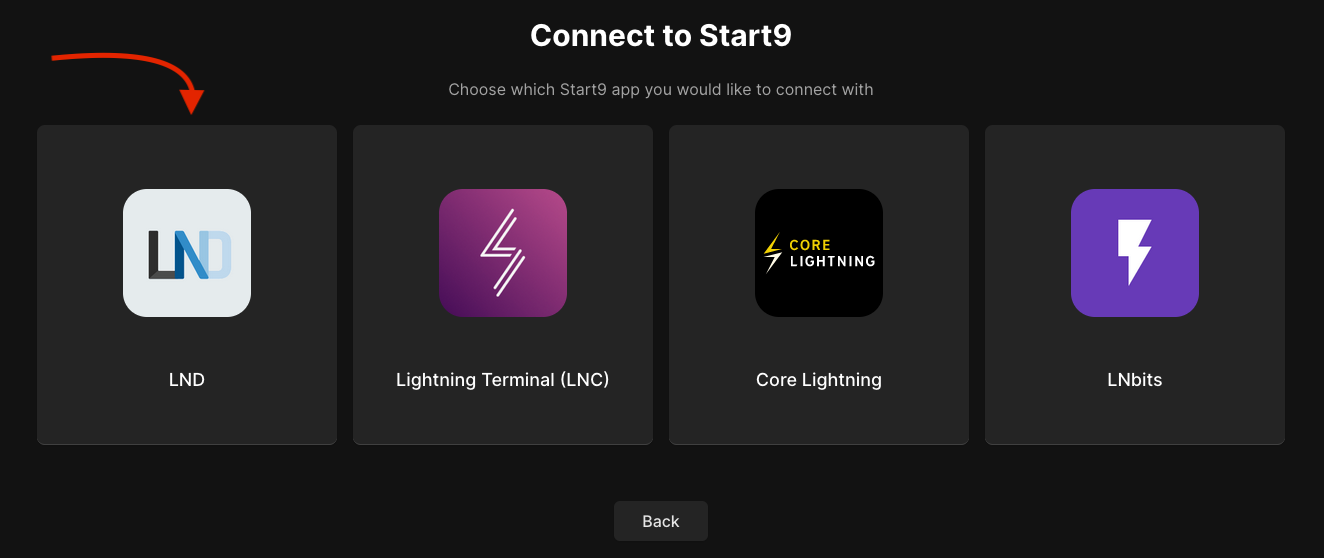
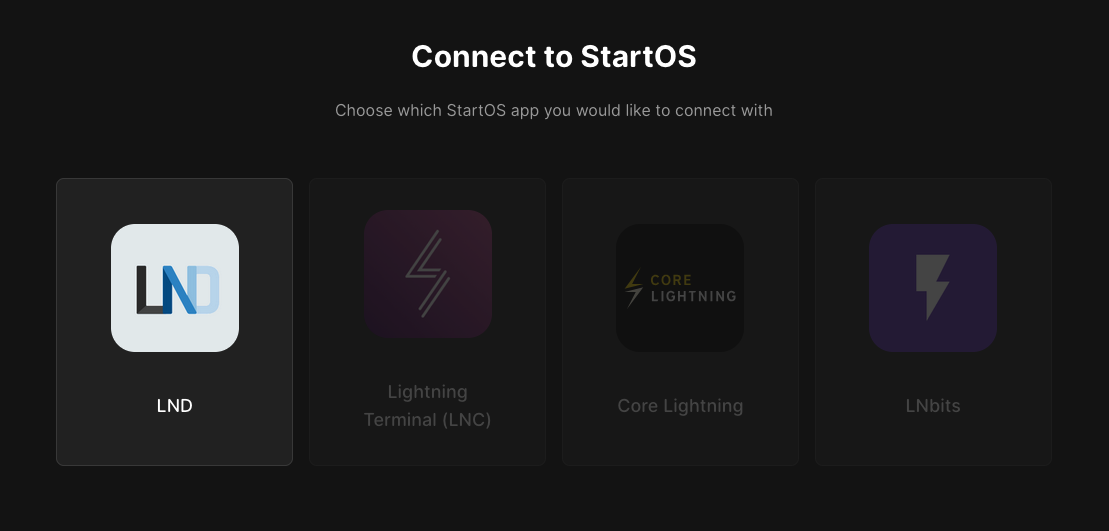
Integration of AlbyHub guide(s)

diff --git a/site/source/service-guides/lightning/albyhub.rst b/site/source/service-guides/lightning/albyhub.rst
@@ -1,0 +1,219 @@
+.. _albyhub:
+
+=======
+AlbyHub
+=======
+
+Alby Hub is the open-source, self-custodial Lightning wallet that puts you in control. Connect to your LND or to an integrated node, it's more than just a wallet—it's your gateway to Bitcoin. Manage channels, run apps, and take charge of your funds, all through one sleek, user-friendly interface. Empower your Bitcoin journey with simplicity and sovereignty. 
+
+Usage options
+--------------
+
+- **LND already on your server**: This option tells Alby Hub to use the LND node installed on this StartOS server. It is the more sovereign and secure option, allowing full control over your node.
+    
+- **Alby Hub embedded light node**: This option tells Alby Hub to use its own, built-in *light node*. This option is convenient but offers less control over your node.
+
+
+Getting Started
+---------------
+
+#. Once you'de made your decision on how to use AlbyHub, install it from the marketplace.
+
+   .. figure:: /_static/images/lightning/albyhub-install.png
+      :width: 70%
+      :alt: Installing AlbyHub
+
+#. Click **Configure** 
+
+   .. figure:: /_static/images/lightning/albyhub-config-0.png
+      :width: 50%
+      :alt: Configure
+
+#. And select your prefered usage type…
+
+   .. figure:: /_static/images/lightning/albyhub-config-1.png
+      :width: 50%
+      :alt: Configure
+
+#. Hit **Save** and then start the service.
+
+
+LND on your server
+------------------
+
+You will be running AlbyHub on your server, and it will be connecting to LND on your server.
+
+#. `Launch` the AlbyHub UI for the first time.
+
+#. Cycle through the introduction to arrive at the setup screen.
+
+   .. figure:: /_static/images/lightning/albyhub-setup-0.png
+      :width: 70%
+      :alt: Setup
+
+#. Click on the **Get Started (LND)** button.
+
+   .. figure:: /_static/images/lightning/albyhub-setup-1.png
+      :width: 70%
+      :alt: Setup
+
+#. Enter a password and keep it somewhere safe, like in your personal :ref:`Vaultwarden<vaultwarden-service>` instance.
+
+   .. figure:: /_static/images/lightning/albyhub-setup-2.png
+      :width: 70%
+      :alt: Setup
+
+#. Select whether you will create an Alby account now or later (i.e. not at all).
+
+   .. note:: An Alby Account gives your hub a lightning address, Nostr address and zaps, email notifications, fiat topups, priority support, automatic channel backups, access to podcasting apps & more. If you choose not to create an account, your setup will be complete.
+
+   .. figure:: /_static/images/lightning/albyhub-setup-3.png
+      :width: 70%
+      :alt: Setup
+
+#. Connect your Alby account by clicking to request and authorization code. This will open a new tab.
+
+   .. figure:: /_static/images/lightning/albyhub-albyaccount.png
+      :width: 70%
+      :alt: Setup
+
+#. If you have a pre-existing Alby account your can log in here, otherwise you can sign up.
+
+   .. figure:: /_static/images/lightning/albyhub-setup-4.png
+      :width: 70%
+      :alt: Setup
+
+   .. figure:: /_static/images/lightning/albyhub-setup-5.png
+      :width: 70%
+      :alt: Setup
+
+#. You will get an authorization code to add back into the previous tab hosted on your server. Paste that auth code and hit **Submit**.
+
+   .. figure:: /_static/images/lightning/albyhub-success.png
+      :width: 70%
+      :alt: Setup
+
+#. Your self-hosted AlbyHub is ready and connected to your self-hosted LND!
+
+
+Alby Hub embedded light node
+----------------------------
+
+You will be running AlbyHub on your server, and it will be connecting to LDK light node on your server.
+
+#. `Launch` the AlbyHub UI for the first time.
+
+#. Cycle through the introduction to arrive at the setup screen.
+
+   .. figure:: /_static/images/lightning/albyhub-ldk-setup-1.png
+      :width: 70%
+      :alt: Setup
+
+#. Click on the **Get Started (LDK)** button.
+
+   .. figure:: /_static/images/lightning/albyhub-setup-1.png
+      :width: 70%
+      :alt: Setup
+
+#. Enter a password and keep it somewhere save, like in your personal Vaultwarden.
+
+   .. figure:: /_static/images/lightning/albyhub-setup-2.png
+      :width: 70%
+      :alt: Setup
+
+#. Select whether you will create an Alby account now or later (i.e. not at all).
+
+   .. note:: An Alby Account gives your hub a lightning address, Nostr address and zaps, email notifications, fiat topups, priority support, automatic channel backups, access to podcasting apps & more. If you choose not to create an account, your setup will be complete.
+
+   .. figure:: /_static/images/lightning/albyhub-setup-3.png
+      :width: 70%
+      :alt: Setup
+
+#. Connect your Alby account by clicking to request and authorization code. This will open a new tab.
+
+   .. figure:: /_static/images/lightning/albyhub-albyaccount.png
+      :width: 70%
+      :alt: Setup
+
+#. If you have a pre-existing Alby account your can log in here, otherwise you can sign up.
+
+   .. figure:: /_static/images/lightning/albyhub-setup-4.png
+      :width: 70%
+      :alt: Setup
+
+   .. figure:: /_static/images/lightning/albyhub-setup-5.png
+      :width: 70%
+      :alt: Setup
+
+#. You will get an authorization code to add back into the previous tab hosted on your server. Paste that auth code and hit **Submit**.
+
+   .. figure:: /_static/images/lightning/albyhub-ldk-success.png
+      :width: 70%
+      :alt: Setup
+
+#. Your self-hosted AlbyHub is ready and connected to your self-hosted LDK light node!
+
+
+Connecting Apps
+----------------------------
+
+Two of the more important apps you may want to install are:
+
+- **Alby Web** (a simple wallet interface that connects to your AlbyHub and can be saved as a PWA (app-like) on your phone)
+- **Alby Extension** (companion for accessing Bitcoin and Nostr apps, payments across the globe and passwordless logins)
+
+Alby Web
+=========
+
+#. If you have connected your AlbyHub to an Alby account during setup, Alby Web will appear connected by default. (If you have not, you can go to **Settings** > **Alby Account** to add an account).
+
+   .. figure:: /_static/images/lightning/albyhub-albyweb-0.png
+      :width: 70%
+      :alt: Alby Web Setup
+
+   .. figure:: /_static/images/lightning/albyhub-albyweb-1.png
+      :width: 70%
+      :alt: Alby Web Setup
+
+This wallet interface allows you to interact with your AlbyHub-connected LND over clearnet with a easy to use interface.
+
+
+Alby Extension
+==============
+
+#. Visit the App Store from your AlbyHub.
+
+   .. figure:: /_static/images/lightning/albyhub-appstore-extension-0.png
+      :width: 70%
+      :alt: Alby Extension Setup
+
+#. Click **Connect**.
+
+   .. figure:: /_static/images/lightning/albyhub-appstore-extension-1.png
+      :width: 70%
+      :alt: Alby Extension Setup
+
+#. Give the connection to your Alby Extenions a name and decide what access and limitations you give it.
+
+   .. note:: The settings are fairly self explanatory. Typically you'll want your browser extension to be able to have full access to your lightning node and funds since you will be the only one using it and will want to both make and receive payments. Payments you make have to be confirmed and authorized through the extension, but if you are worried about overspending, the advanced **Budget** option sets monthly limits on how much can be spent. This is useful in case you get carried away zapping or if you ever misread a payment request that's higher than you expect.
+
+   .. figure:: /_static/images/lightning/albyhub-appstore-extension-2.png
+      :width: 70%
+      :alt: Alby Extension Setup
+
+#. Download the extension for your browser if you don't have it already. Install it. Open it if you do already have it installed.
+
+#. If the extenstion is installed on the same browser, click the newly appeared icon in the menu bar while on the screen above. Click to connect.
+
+   .. figure:: /_static/images/lightning/albyhub-appstore-extension-success.png
+      :width: 70%
+      :alt: Alby Extension Setup
+
+#. You can now spend sats and generate invoices from your browser! Test it out by running your own :ref:`noStrudel<nostrudel>` instance.
+
+Resources and Guides
+--------------------
+
+**Alby** have extensive users guides `available here <https://guides.getalby.com/user-guide/v/alby-account-and-browser-extension/alby-hub/introduction>`_. Learn how to connect other apps and use the advanced features available to those who set up Alby accounts.
+
+**BTC Sesstions** has created an Alby Hub `tutorial here <https://www.youtube.com/watch?v=2Z1BzwxdP4I>`_. While this focuses on the cloud hosted variety of AlbyHub, the interface and features are the same, and the Start9 hosted variety gets a mention in the last segment.

diff --git a/site/source/service-guides/lightning/alby-cln.rst b/site/source/service-guides/lightning/alby-cln.rst
@@ -1,30 +1,41 @@
 .. _alby-cln:
 
-====
-Alby
-====
+======================
+Alby Browser Extension
+======================
 
-Alby is a browser extension that can be connected to your lightning node a number of ways. This guide will go over direct connections between Alby and your **Core Lightning** node. 
+Alby provides a browser extension that can be connected to your lightning node a number of ways. This guide will go over direct connections between the Alby browser extension and your **Core Lightning** node. 
 
-If you'd like to connect via `LNbits <https://marketplace.start9.com/marketplace/lnbits>`_ which allows allocation of funds, please see :ref:`this guide<connecting-lnbits>`.
+.. note:: If you are looking for AlbyHub, this is not it. To use :ref:`AlbyHub<albyhub>` you must instead run :ref:`LND<lightning-intro>`.
+
+.. note:: If you'd like to connect via `LNbits <https://marketplace.start9.com/marketplace/lnbits>`_ which allows allocation of funds (rather than spend limits within the extention), please see :ref:`this guide<connecting-lnbits>`.
 
 .. note:: We are going to connect using Tor so that Alby will be able to connect from anywhere.
 
 #. Make sure you are already :ref:`running Tor<connecting-tor>` on your system and we suggest using Firefox which must be :ref:`configured to use Tor.<tor-ff>`
 
 #. Download the Alby extension by visiting the `Alby Github <https://github.com/getAlby/lightning-browser-extension#installation>`_, selecting your browser, and installing.
-#. On the Alby welcome screen, select **Get Started**.
-#. Create a strong password and store it somewhere safe, like your Vaultwarden password manager.
-#. On the next screen, select **Other Wallets** and click **Connect**.
+
+   .. figure:: /_static/images/lightning/alby-unlock-passcode.png
+      :width: 20%
+      :alt: alby-passcode
+
+#. Set an unlock passcode and store it somewhere safe, like your Vaultwarden password manager.
+
+   .. figure:: /_static/images/lightning/alby-bring-your-own.png
+      :width: 50%
+      :alt: alby-own
+
+#. On the next screen, select **Find Your Wallet**.
 
 
-#. Click **Start9** then **Core Lightning**.
+#. Click **StartOS** then **Core Lightning**.
 
-   .. figure:: /_static/images/lightning/alby-start9.png
+   .. figure:: /_static/images/lightning/alby-select-startos.png
       :width: 50%
       :alt: alby-start9
 
-   .. figure:: /_static/images/lightning/alby-cln-0.png
+   .. figure:: /_static/images/lightning/alby-select-cln.png
       :width: 50%
       :alt: alby-cln-0
 

diff --git a/site/source/service-guides/lightning/alby-lnd.rst b/site/source/service-guides/lightning/alby-lnd.rst
@@ -1,25 +1,36 @@
 .. _alby-lnd:
 
-====
-Alby
-====
+======================
+Alby Browser Extension
+======================
+
+.. warning:: This is NOT the guide for setting up **AlbyHub** this is for a direct connection to LND. If you'd like to connect via AlbyHub instead (recommended), click :ref:`here<albyhub>`.
 
 Alby is a browser extension that can be connected to your lightning node a number of ways. This guide will go over direct connections between Alby and your **LND node**.
 
-If you'd like to connect via `LNbits <https://marketplace.start9.com/marketplace/lnbits>`_ which allows allocation of funds, please see :ref:`this guide<connecting-lnbits>`.
+.. note:: If you'd like to connect via `LNbits <https://marketplace.start9.com/marketplace/lnbits>`_ which allows allocation of funds (rather than spend limits within the extension), please see :ref:`this guide<connecting-lnbits>`.
 
 .. note:: We are going to connect using Tor so that Alby will be able to connect from anywhere.
 
 #. Make sure you are already :ref:`running Tor<connecting-tor>` on your system and we suggest using Firefox which must be :ref:`configured to use Tor.<tor-ff>`
 
 #. Download the Alby extension by visiting the `Alby Github <https://github.com/getAlby/lightning-browser-extension#installation>`_, selecting your browser, and installing.
-#. On the Alby welcome screen, select **Get Started**.
-#. Create a strong password and store it somewhere safe, like your Vaultwarden password manager.
-#. On the next screen, select **Other Wallets** and click **Connect**.
+  
+   .. figure:: /_static/images/lightning/alby-unlock-passcode.png
+      :width: 20%
+      :alt: alby-passcode
 
-#. Select **Start9** and then **LND**:
+#. Set an unlock passcode and store it somewhere safe, like your Vaultwarden password manager.
 
-   .. figure:: /_static/images/lightning/alby-start9.png
+   .. figure:: /_static/images/lightning/alby-bring-your-own.png
+      :width: 50%
+      :alt: alby-own
+
+#. On the next screen, select **Find Your Wallet**.
+
+#. Select **StartOS** and then **LND**:
+
+   .. figure:: /_static/images/lightning/alby-select-startos.png
       :width: 50%
       :alt: alby-start9
 

diff --git a/site/source/service-guides/lightning/connecting-lndc.rst b/site/source/service-guides/lightning/connecting-lndc.rst
@@ -6,7 +6,11 @@ Connect to LND via Lightning Node Connect (LNC)
 
 Lightning Node Connect (LNC) provides a very simple way to connect to an LND node that **does not require the Tor network**. 
 
-This is **not** the same as **connecting directly to LND** for which guides can be found :ref:`here<connecting-lnd>`.
+.. warning:: This is NOT the guide for setting up **AlbyHub** this is for a direct connection to LND. If you'd like to connect via AlbyHub instead (recommended), click :ref:`here<albyhub>`.
+
+.. warning:: This is **not** the same as **connecting directly to LND** for which guides can be found :ref:`here<connecting-lnd>`.
+
+
 
 .. note:: This requires installing the `Lightning Terminal <https://marketplace.start9.com/marketplace/lightning-terminal>`_ service on your Start9 server.
 

diff --git a/site/source/service-guides/lightning/connecting-albyhub.rst b/site/source/service-guides/lightning/connecting-albyhub.rst
@@ -1,0 +1,14 @@
+.. _connecting-albyhub:
+
+===========================
+Connect to LND with AlbyHub
+===========================
+
+.. note:: Connecting to LND via **AlbyHub** is a very powerful way to interact with LND in a self sovereign way by running AlbyHub on your *own server* and not on external servers outside of your control. 
+  But to connect to LND *without* AlbyHub, see :ref:`here<connecting-lnd>`.
+
+
+.. toctree::
+  :maxdepth: 1
+
+  albyhub

diff --git a/site/source/service-guides/lightning/index.rst b/site/source/service-guides/lightning/index.rst
@@ -25,6 +25,12 @@ If you're using **LND**, you can select one of the following options:
   .. toctree::
     :maxdepth: 2
 
+    connecting-albyhub
+
+
+  .. toctree::
+    :maxdepth: 2
+
     connecting-lnd
 
 If you would like to connect to LND via Lightning Node Connect **(LNC)** in order to avoid using Tor, you can do so with Alby and Zeus via the Lightning Terminal service:

diff --git a/site/source/service-guides/lightning/connecting-lnd.rst b/site/source/service-guides/lightning/connecting-lnd.rst
@@ -6,6 +6,8 @@ Connect Directly to LND
 
 The following wallets can connect directly to LND via LND's REST API.
 
+.. tip:: If you'd like to connect via AlbyHub instead (recommended), click :ref:`here<albyhub>`.
+
 .. tip:: If you'd like to connect via LNbits instead, click :ref:`here<connecting-lnbits>`.
 
 .. toctree::

diff --git a/site/source/service-guides/lightning/alby-lnc.rst b/site/source/service-guides/lightning/alby-lnc.rst
@@ -1,8 +1,8 @@
 .. _alby-lnc:
 
-====
-Alby
-====
+======================
+Alby Browser Extension
+======================
 
 Alby is a browser extension that can be connected to your lightning node a number of ways. 
 

diff --git a/site/source/service-guides/lightning/alby-lnbits.rst b/site/source/service-guides/lightning/alby-lnbits.rst
@@ -1,7 +1,7 @@
 .. _alby-lnbits:
 
-Alby
-----
+Alby Browser Extension
+-----------------------
 
 .. note:: This guide assumes you have already setup LNbits as per :ref:`this guide <connecting-lnbits>`.
 
